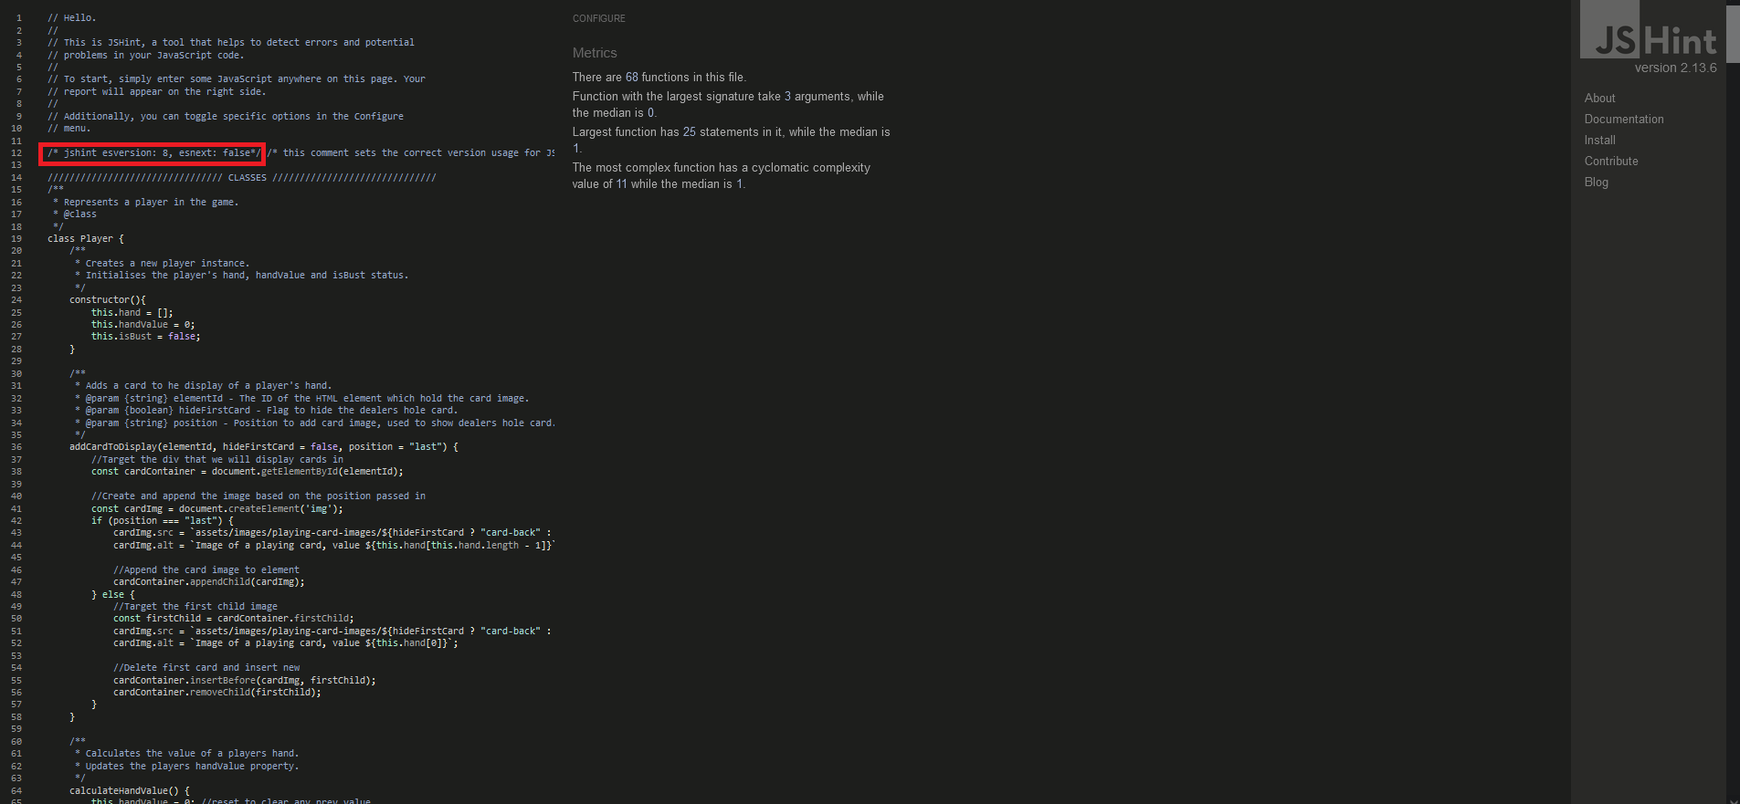
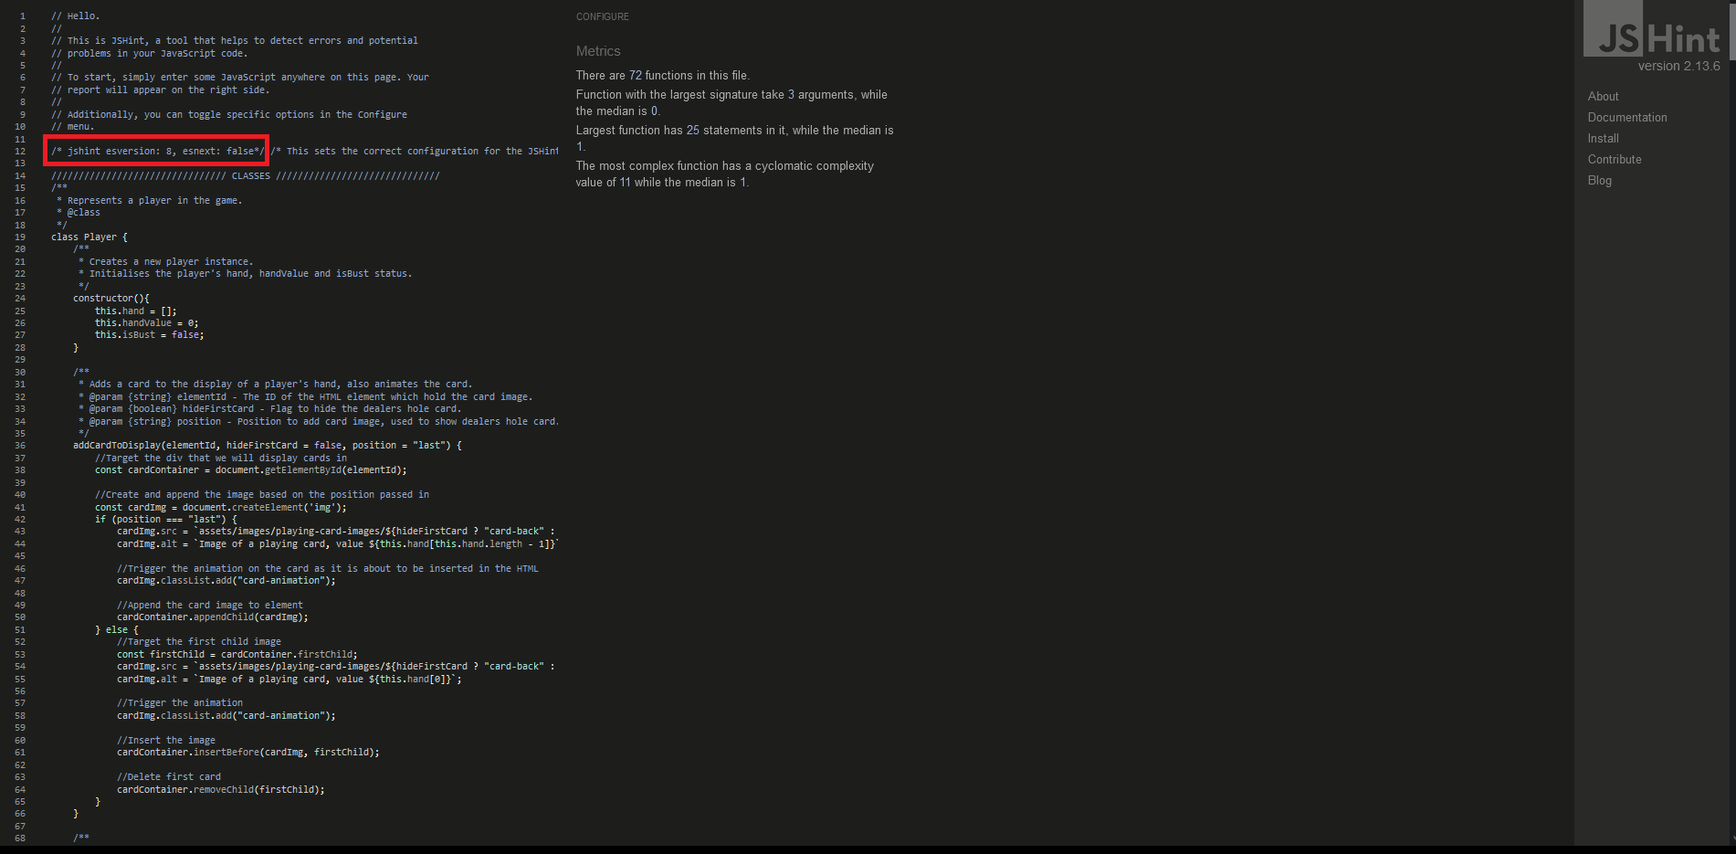
Add card animation, update readme

Changed region(s): [[0.0, 0.0, 1.0, 1.0], [0.9001, 0.0, 1.0, 0.2452], [0.3414, 0.0, 0.3724, 0.0306]]

diff --git a/assets/css/style.css b/assets/css/style.css
@@ -323,8 +323,23 @@ header {
     text-decoration: none;
     cursor: pointer;
 }
+/********************** CARD ANIMATION ********************/
+/* css class rule - add this to  */
+.card-animation {
+    animation-name: cardAnimation;  /*name of keyframe where transition is defined*/
+    animation-duration: 1s;         /*how long it should take to complete the keyframe*/
+}
 
-/********************* MEDIA QUERIES - WIDTH *******************/   
+@keyframes cardAnimation {
+    from {
+        transform: translateY(-18.75rem) rotateY(90deg); /* Initial position and rotation */
+    }
+    to {
+        transform: translateY(0) rotateY(0); /* Final position and rotation */
+    }
+}
+
+/******************* MEDIA QUERIES - WIDTH *****************/   
 /* 1600px */
 @media screen and (max-width:100em) {
 /* GAME PAGE */
@@ -440,20 +455,30 @@ header {
 /* 400px */
 @media screen and (max-width:25em) {
 /* GAME PAGE */
-    /* Remove the logo image */
-    .logo-image img {
-        display: none;  
+
+    /* Remove header padding */
+    header {
+        padding: 0;
     }
 
-    /* Resize logo text size */
-    .logo-content h1{
-        font-size: 1.8rem;
-    } 
+    /* Resize logo image and content */
+    .logo-image img {
+        height:1.625rem;
+        width: 1.656rem;  
+    }
 
-    /* Adjust betting input */
-    .betting-input {
-        flex-direction: column;
-        align-items: center;
+    .logo-content h1 {
+        font-size: 1.8rem;
+    }
+
+    .betting-input p {
+        margin-right: 0.25rem;
+        font-size: 1.2rem;
+    }
+
+    .betting-input input {
+        font-size: 1rem;
+        font-weight: 500;
     }
 
 /* GAME PAGE - WITH PLAY AGAIN DISPLAYED */
@@ -494,8 +519,8 @@ header {
 
     /* Resize logo image and content */
     .logo-image img {
-        width: 1.97rem;
-        height: 2rem;
+        height:1.625rem;
+        width: 1.656rem;  
     }
 
     .logo-content h1 {
@@ -512,8 +537,18 @@ header {
     }
 }
 
-/* 755 px */
-@media screen and (max-height:47.188em) {
+/* 710 px */
+@media screen and (max-height:44.375em) {
+    /* GAME PAGE - WITH PLAY AGAIN DISPLAYED */
+    /* resize the play again button */
+    #play-again-button {
+        width:14rem;
+        height: 5.5rem;
+    }  
+}
+
+/* 768 px */
+@media screen and (max-height:48em) {
 /* GAME PAGE */
     /* remove margins from betting input */
     .betting-input {
@@ -522,13 +557,13 @@ header {
 
     /* resize card images */
     #dealers-cards img, #players-cards img {
-        width: 6.25rem;
-        height: 9.063rem;
+        width: 7rem;
+        height: 9rem;
     }  
 }
 
-/* 685 px */
-@media screen and (max-height:42.813em) {
+/* 650 px */
+@media screen and (max-height:40.625em) {
 /* GAME PAGE */
     /* Resize controls container */
     .game-controls-container {
@@ -563,12 +598,12 @@ header {
     }
     
     .betting-input p {
-        margin-right: 1rem;
+        margin-right: 0.25rem;
         font-size: 1.1rem;
     }
 
     .betting-input input {
-        font-size: 0.8rem;
+        font-size: 1rem;
         font-weight: 500;
     }
 
@@ -583,12 +618,12 @@ header {
     /* resize the play again button */
     #play-again-button {
         width:14rem;
-        height: 5.5rem;
+        height: 5rem;
     }  
 }
 
-/* 602 px */
-@media screen and (max-height:37.625em) {
+/* 590 px */
+@media screen and (max-height:36.875em) {
 /* GAME PAGE */
     /* resize card images */
     #dealers-cards img, #players-cards img {
@@ -597,8 +632,8 @@ header {
     } 
 }
 
-/* 530 px */
-@media screen and (max-height:33.125em) {
+/* 520 px */
+@media screen and (max-height:32.5em) {
     /* GAME PAGE */
     /* Reduce some margins */
     .dealer-container, .player-container {

diff --git a/assets/js/script.js b/assets/js/script.js
@@ -17,7 +17,7 @@ class Player {
     }
     
     /**
-     * Adds a card to he display of a player's hand. 
+     * Adds a card to the display of a player's hand, also animates the card. 
      * @param {string} elementId - The ID of the HTML element which hold the card image.
      * @param {boolean} hideFirstCard - Flag to hide the dealers hole card.
      * @param {string} position - Position to add card image, used to show dealers hole card.
@@ -32,6 +32,9 @@ class Player {
             cardImg.src = `assets/images/playing-card-images/${hideFirstCard ? "card-back" : this.hand[this.hand.length - 1]}.webp`;
             cardImg.alt = `Image of a playing card, value ${this.hand[this.hand.length - 1]}`;
             
+            //Trigger the animation on the card as it is about to be inserted in the HTML
+            cardImg.classList.add("card-animation");
+
             //Append the card image to element
             cardContainer.appendChild(cardImg);  
         } else {
@@ -40,8 +43,13 @@ class Player {
             cardImg.src = `assets/images/playing-card-images/${hideFirstCard ? "card-back" : this.hand[0]}.webp`;
             cardImg.alt = `Image of a playing card, value ${this.hand[0]}`;
 
-            //Delete first card and insert new
-            cardContainer.insertBefore(cardImg, firstChild);
+            //Trigger the animation
+            cardImg.classList.add("card-animation");
+
+            //Insert the image
+            cardContainer.insertBefore(cardImg, firstChild);   
+
+            //Delete first card
             cardContainer.removeChild(firstChild);
         } 
     }

diff --git a/README.md b/README.md
@@ -31,6 +31,7 @@ The Lucky 21 online game was designed to allow the user a place to practice and 
     * [Play again button](#play-again-button)
     * [Modal pop up box](#modal-pop-up-box)
     * [Game Audio](#game-audio)
+    * [Card Animation](#card-animation)
     * [404 page](#404-page)
     * [Game Functionality](#game-functionality)
     * [Future Implementations](#future-implementations)
@@ -360,6 +361,24 @@ All the audio in the game is off by default to ensure a good user experience. A 
 ![Audio disabled desktop](documentation/features/audio-enabled-desktop.png)
 #### Mobile
 ![Audio disabled mobile](documentation/features/audio-enabled-mobile.png)
+
+
+### Game audio demo 
+Please click the link below to be directed to the demo video of the game audio. This opens a youtube video. 
+
+[![Card Animation Demo](https://img.youtube.com/vi/wuDHIqxKwJ0/0.jpg)](https://www.youtube.com/watch?v=wuDHIqxKwJ0)
+
+## Card Animation
+The last feature I added to my code was a card animation. The animation occurs anytime the dealer deals a card to the player or themselves and also when the dealer shows their hole card. Its primary purpose was to add a feel of quality to the online game and improve the users experience. 
+
+The animation is added to the card image inside the function which creates and add the cards to the HTML. Due to this the card variable no longer exists after it is inserted into the HTML and the function ends, meaning it does not need to hold any of its values after the animation using fill mode forward etc.
+
+### Link to video of animation 
+Please click the link below to be directed to the demo video of the animation. This opens a youtube video.
+
+[![Card Animation Demo](https://img.youtube.com/vi/7O0xEwYkH1Q/0.jpg)](https://www.youtube.com/watch?v=7O0xEwYkH1Q)
+
+
 ## 404 page
 The 404 page is the page the user will be directed to if they try to visit a page that doesn't exist. It is used as feedback to let the user know that something has gone wrong and provide them with a home button back to safety (game page).
 
@@ -414,8 +433,6 @@ Based upon the game results above the game will no display a message informing t
 ## Future implementations
 In the future I would like to add the following features to the online game
 * Functionality for splitting a players hand.
-* Animations that flip the cards when dealt.
-* Background music, card dealt sound, win and loss sounds (all off by default).
 * Update the betting section so that it used images of chips for betting.
 * Add an option for the user to select the number of deck that are used in the game
 * Add local storage so that the player's game progress (chip count) could be saved.
@@ -574,7 +591,18 @@ The tests for this online game listed below were conducted on a number of browse
 |1st game game results - push                   |Game ends, correct modal displayed, chip count updated, new game starts after 3 sec                        |&#10004;|
 |1st game game results - player wins            |Game ends, correct modal displayed, chip count updated, new game starts after 3 sec                        |&#10004;|
 |1st game game results - player loses           |Game ends, correct modal displayed, chip count updated, new game starts after 3 sec                        |&#10004;|
-
+|Audio - Icon default image                     |Defaults to speaker off icon                                                                               |&#10004;|
+|Audio - Icon default feedback                  |Change colour on mouse over                                                                                |&#10004;|
+|Audio - Icon default functionality             |When clicked, music plays, icon changes to on icon                                                         |&#10004;|
+|Audio - Icon toggle                            |When clicked, music and icon toggle from on to off                                                         |&#10004;|
+|Audio - Icon blocks all audio                  |When toggled off, no other audio sounds (card flip, win, lose) will play                                   |&#10004;|
+|Audio - Card flip sound                        |Ensure card flip sound is played when cards are dealt, player hits or dealer turns hole card               |&#10004;|
+|Audio - Win sound                              |Ensure win sound is played for all types of win (win, blackjack, push, dealer bust)                        |&#10004;|
+|Audio - Lose sound                             |Ensure lose sound is played for all types of lose (lose bust)                                              |&#10004;|
+|Animation - Card filp (deal)                   |Ensure card animation works for initial deal                                                               |&#10004;|
+|Animation - Card filp (hit)                    |Ensure card animation works when player hits                                                               |&#10004;|
+|Animation - Card filp (dealer hole card)       |Ensure card animation works when dealer reveals hole card                                                  |&#10004;|
+|Animation - Card filp (dealer hits)            |Ensure card animation works when dealer takes additional cards                                             |&#10004;|
 </details>
 
 <details>
@@ -623,6 +651,18 @@ The tests for this online game listed below were conducted on a number of browse
 |2nd game game results - push                   |Game ends, correct modal displayed, chip count updated, new game starts after 3 sec                        |&#10004;|
 |2nd game game results - player wins            |Game ends, correct modal displayed, chip count updated, new game starts after 3 sec                        |&#10004;|
 |2nd game game results - player loses           |Game ends, correct modal displayed, chip count updated, new game starts after 3 sec                        |&#10004;|
+|Audio - Icon default image                     |Defaults to speaker off icon                                                                               |&#10004;|
+|Audio - Icon default feedback                  |Change colour on mouse over                                                                                |&#10004;|
+|Audio - Icon default functionality             |When clicked, music plays, icon changes to on icon                                                         |&#10004;|
+|Audio - Icon toggle                            |When clicked, music and icon toggle from on to off                                                         |&#10004;|
+|Audio - Icon blocks all audio                  |When toggled off, no other audio sounds (card flip, win, lose) will play                                   |&#10004;|
+|Audio - Card flip sound                        |Ensure card flip sound is played when cards are dealt, player hits or dealer turns hole card               |&#10004;|
+|Audio - Win sound                              |Ensure win sound is played for all types of win (win, blackjack, push, dealer bust)                        |&#10004;|
+|Audio - Lose sound                             |Ensure lose sound is played for all types of lose (lose bust)                                              |&#10004;|
+|Animation - Card filp (deal)                   |Ensure card animation works for initial deal                                                               |&#10004;|
+|Animation - Card filp (hit)                    |Ensure card animation works when player hits                                                               |&#10004;|
+|Animation - Card filp (dealer hole card)       |Ensure card animation works when dealer reveals hole card                                                  |&#10004;|
+|Animation - Card filp (dealer hits)            |Ensure card animation works when dealer takes additional cards                                             |&#10004;|
 
 </details>
 
@@ -672,12 +712,24 @@ The tests for this online game listed below were conducted on a number of browse
 |nth game game results - push                   |Game ends, correct modal displayed, chip count updated, new game starts after 3 sec                        |&#10004;|
 |nth game game results - player wins            |Game ends, correct modal displayed, chip count updated, new game starts after 3 sec                        |&#10004;|
 |nth game game results - player loses           |Game ends, correct modal displayed, chip count updated, new game starts after 3 sec                        |&#10004;|
+|Audio - Icon default image                     |Defaults to speaker off icon                                                                               |&#10004;|
+|Audio - Icon default feedback                  |Change colour on mouse over                                                                                |&#10004;|
+|Audio - Icon default functionality             |When clicked, music plays, icon changes to on icon                                                         |&#10004;|
+|Audio - Icon toggle                            |When clicked, music and icon toggle from on to off                                                         |&#10004;|
+|Audio - Icon blocks all audio                  |When toggled off, no other audio sounds (card flip, win, lose) will play                                   |&#10004;|
+|Audio - Card flip sound                        |Ensure card flip sound is played when cards are dealt, player hits or dealer turns hole card               |&#10004;|
+|Audio - Win sound                              |Ensure win sound is played for all types of win (win, blackjack, push, dealer bust)                        |&#10004;|
+|Audio - Lose sound                             |Ensure lose sound is played for all types of lose (lose bust)                                              |&#10004;|
+|Animation - Card filp (deal)                   |Ensure card animation works for initial deal                                                               |&#10004;|
+|Animation - Card filp (hit)                    |Ensure card animation works when player hits                                                               |&#10004;|
+|Animation - Card filp (dealer hole card)       |Ensure card animation works when dealer reveals hole card                                                  |&#10004;|
+|Animation - Card filp (dealer hits)            |Ensure card animation works when dealer takes additional cards                                             |&#10004;|
 
 </details>
 
 <details>
 
-<summary style="font-size: 20px; font-weight: bold;">Game page responsive design and audio testing</summary>
+<summary style="font-size: 20px; font-weight: bold;">Game page responsive design</summary>
 
 | Test                                          | Expected Result                                                                                           | Pass   |
 |-----------------------------------------------|-----------------------------------------------------------------------------------------------------------|--------|
@@ -706,30 +758,23 @@ The tests for this online game listed below were conducted on a number of browse
 |Game page media query height - 825px           |All media query rules are applied                                                                          |&#10004;|
 |Game modals - 825px                            |All game modals display correctly                                                                          |&#10004;|
 |Game functionality - 825px                     |Game functions correctly                                                                                   |&#10004;|
-|Game page media query height - 755px           |All media query rules are applied                                                                          |&#10004;|
-|Game modals - 755px                            |All game modals display correctly                                                                          |&#10004;|
-|Game functionality - 755px                     |Game functions correctly                                                                                   |&#10004;|
-|Game page media query height - 685px           |All media query rules are applied                                                                          |&#10004;|
-|Play again button displayed  height - 685px    |All media query rules are applied                                                                          |&#10004;|
-|Game modals - 685px                            |All game modals display correctly                                                                          |&#10004;|
-|Game functionality - 685px                     |Game functions correctly                                                                                   |&#10004;|
-|Game page media query height - 602px           |All media query rules are applied                                                                          |&#10004;|
-|Game modals - 602px                            |All game modals display correctly                                                                          |&#10004;|
-|Game functionality - 602px                     |Game functions correctly                                                                                   |&#10004;|
-|Game page media query height - 530px           |All media query rules are applied                                                                          |&#10004;|
-|Game modals - 530px                            |All game modals display correctly                                                                          |&#10004;|
-|Game functionality - 530px                     |Game functions correctly                                                                                   |&#10004;|
+|Game page media query height - 768px           |All media query rules are applied                                                                          |&#10004;|
+|Game modals - 768px                            |All game modals display correctly                                                                          |&#10004;|
+|Game functionality - 768px                     |Game functions correctly                                                                                   |&#10004;|
+|Play again button displayed  width - 710px     |All media query rules are applied                                                                          |&#10004;|
+|Game page media query height - 650px           |All media query rules are applied                                                                          |&#10004;|
+|Play again button displayed  height - 650px    |All media query rules are applied                                                                          |&#10004;|
+|Game modals - 650px                            |All game modals display correctly                                                                          |&#10004;|
+|Game functionality - 650px                     |Game functions correctly                                                                                   |&#10004;|
+|Game page media query height - 590px           |All media query rules are applied                                                                          |&#10004;|
+|Game modals - 590px                            |All game modals display correctly                                                                          |&#10004;|
+|Game functionality - 590px                     |Game functions correctly                                                                                   |&#10004;|
+|Game page media query height - 520px           |All media query rules are applied                                                                          |&#10004;|
+|Game modals - 520px                            |All game modals display correctly                                                                          |&#10004;|
+|Game functionality - 520px                     |Game functions correctly                                                                                   |&#10004;|
 |Game page media query height - 472px           |All media query rules are applied                                                                          |&#10004;|
 |Game modals - 472px                            |All game modals display correctly                                                                          |&#10004;|
 |Game functionality - 472px                     |Game functions correctly                                                                                   |&#10004;|
-|Audio - Icon default image                     |Defaults to speaker off icon                                                                               |&#10004;|
-|Audio - Icon default feedback                  |Change colour on mouse over                                                                                |&#10004;|
-|Audio - Icon default functionality             |When clicked, music plays, icon changes to on icon                                                         |&#10004;|
-|Audio - Icon toggle                            |When clicked, music and icon toggle from on to off                                                         |&#10004;|
-|Audio - Icon blocks all audio                  |When toggled off, no other audio sounds (card flip, win, lose) will play                                   |&#10004;|
-|Audio - Card flip sound                        |Ensure card flip sound is played when cards are dealt, player hits or dealer turns hole card               |&#10004;|
-|Audio - Win sound                              |Ensure win sound is played for all types of win (win, blackjack, push, dealer bust)                        |&#10004;|
-|Audio - Lose sound                             |Ensure wlose sound is played for all types of lose (lose bust)                                             |&#10004;|
 
 </details>
 
@@ -882,12 +927,17 @@ Game rules copy was written by GPT. Copy was modified by myself.
 * [Lose audio](https://pixabay.com/sound-effects/wah-wah-sad-trombone-6347/) by [Pixabay](https://pixabay.com/users/pixabay-1/)
 
 ## Code
+For most cases the below code was only used as a learing tool and not directly used in my code, the exception to this is the fisher yates shuffle, which was used in my code.
 * Learned how to implement favicons from [W3schools](https://www.w3schools.com/html/html_favicon.asp).
 * Learned about the fisher yates shuffle from [W3schools](https://www.w3schools.com/js/js_array_sort.asp).
 * Learned how to check for substrings in a string from [Stackoverflow](https://stackoverflow.com/questions/5582574/how-to-check-if-a-string-contains-text-from-an-array-of-substrings-in-javascript)
 * Learned how to disable buttons from [W3schools](https://www.w3schools.com/jsref/prop_pushbutton_disabled.asp).
 * Learned to style disabled buttons from [Stackoverflow](https://stackoverflow.com/questions/14750078/style-disabled-button-with-css)
 * Learned to create modals from [W3schools](https://www.w3schools.com/howto/howto_css_modals.asp)
+* Learned to create animations from [W3schools](https://www.w3schools.com/css/css3_animations.asp)
+* Learned about 3d transforms from [W3schools](https://www.w3schools.com/css/css3_3dtransforms.asp)
+* Learned about the translate property from [W3schools](https://www.w3schools.com/cssref/css_pr_translate.php)
+* Used this test editor from [W3schools](https://www.w3schools.com/css/tryit.asp?filename=trycss3_animation1) to test animation types and properties.
 ## Acknowledgements
 I would like to acknowledge the following people for support and guidance during this project,
 * My Mentor Spencer Barriball for advice before and during this project.
